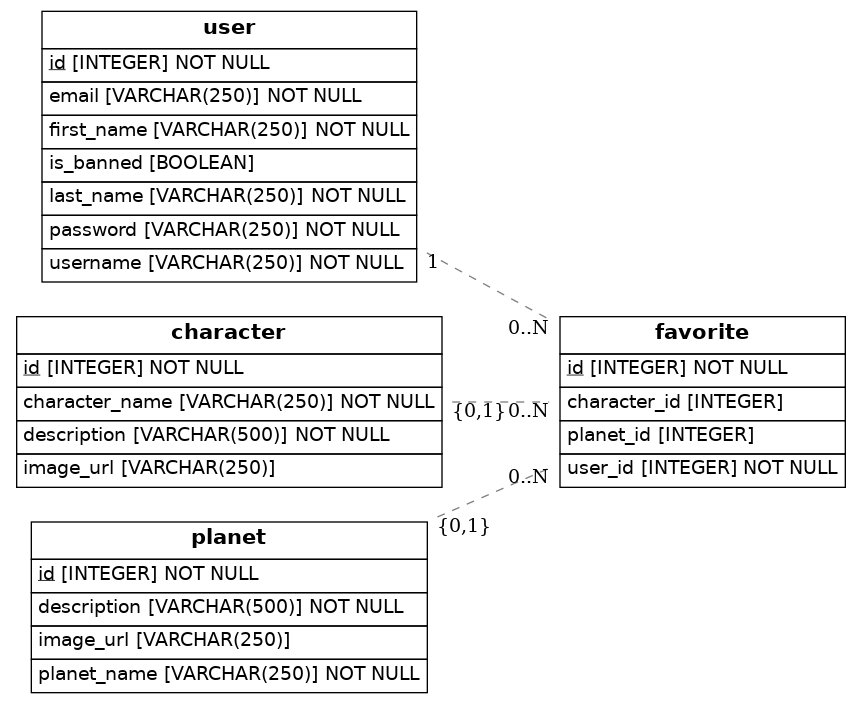
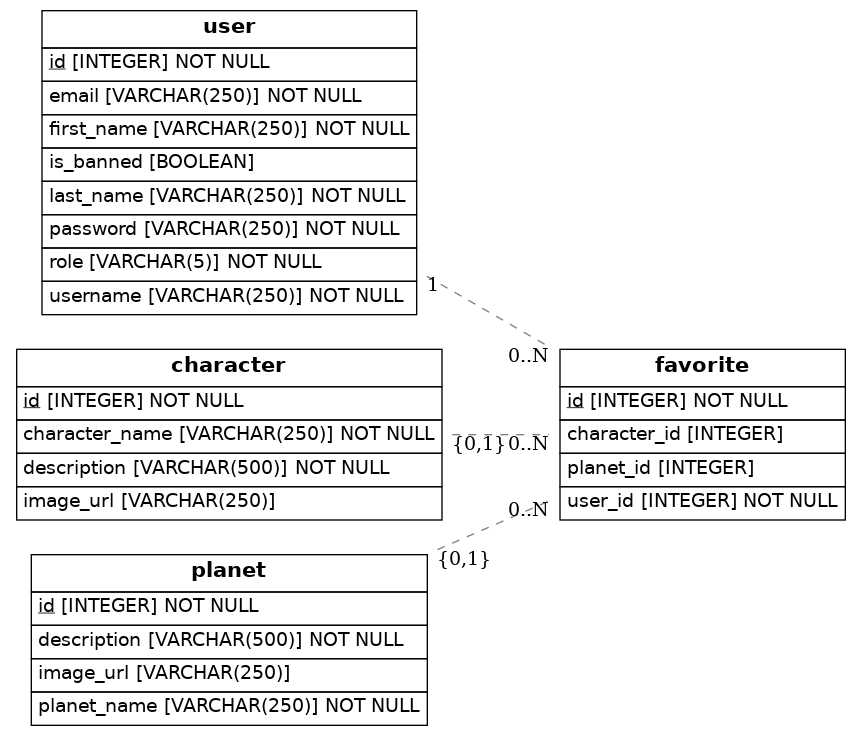
Improved data model for startwars blog

Changed region(s): [[0.0, 0.0, 0.9965, 0.7169], [0.0302, 0.7468, 0.5134, 0.9858], [0.5134, 0.7169, 0.5738, 0.7767]]

diff --git a/src/models.py b/src/models.py
@@ -1,11 +1,15 @@
 import os
 import sys
-from sqlalchemy import Column, ForeignKey, Integer, String, Boolean
+from sqlalchemy import Column, ForeignKey, Integer, String, Boolean, Enum as SqlEnum
 from sqlalchemy.orm import relationship, declarative_base
-
 from eralchemy2 import render_er
+from enum import Enum as PyEnum
 
 Base = declarative_base()
+
+class UserRole(PyEnum):
+    ADMIN = 'admin'
+    USER = 'user'
 
 class User(Base):
     __tablename__ = 'user'
@@ -16,6 +20,7 @@ class User(Base):
     first_name = Column(String(250), nullable=False)
     last_name = Column(String(250), nullable=False)
     is_banned = Column(Boolean, default=False)
+    role = Column(SqlEnum(UserRole), default=UserRole.USER, nullable=False)
 
 
 class Character(Base):
